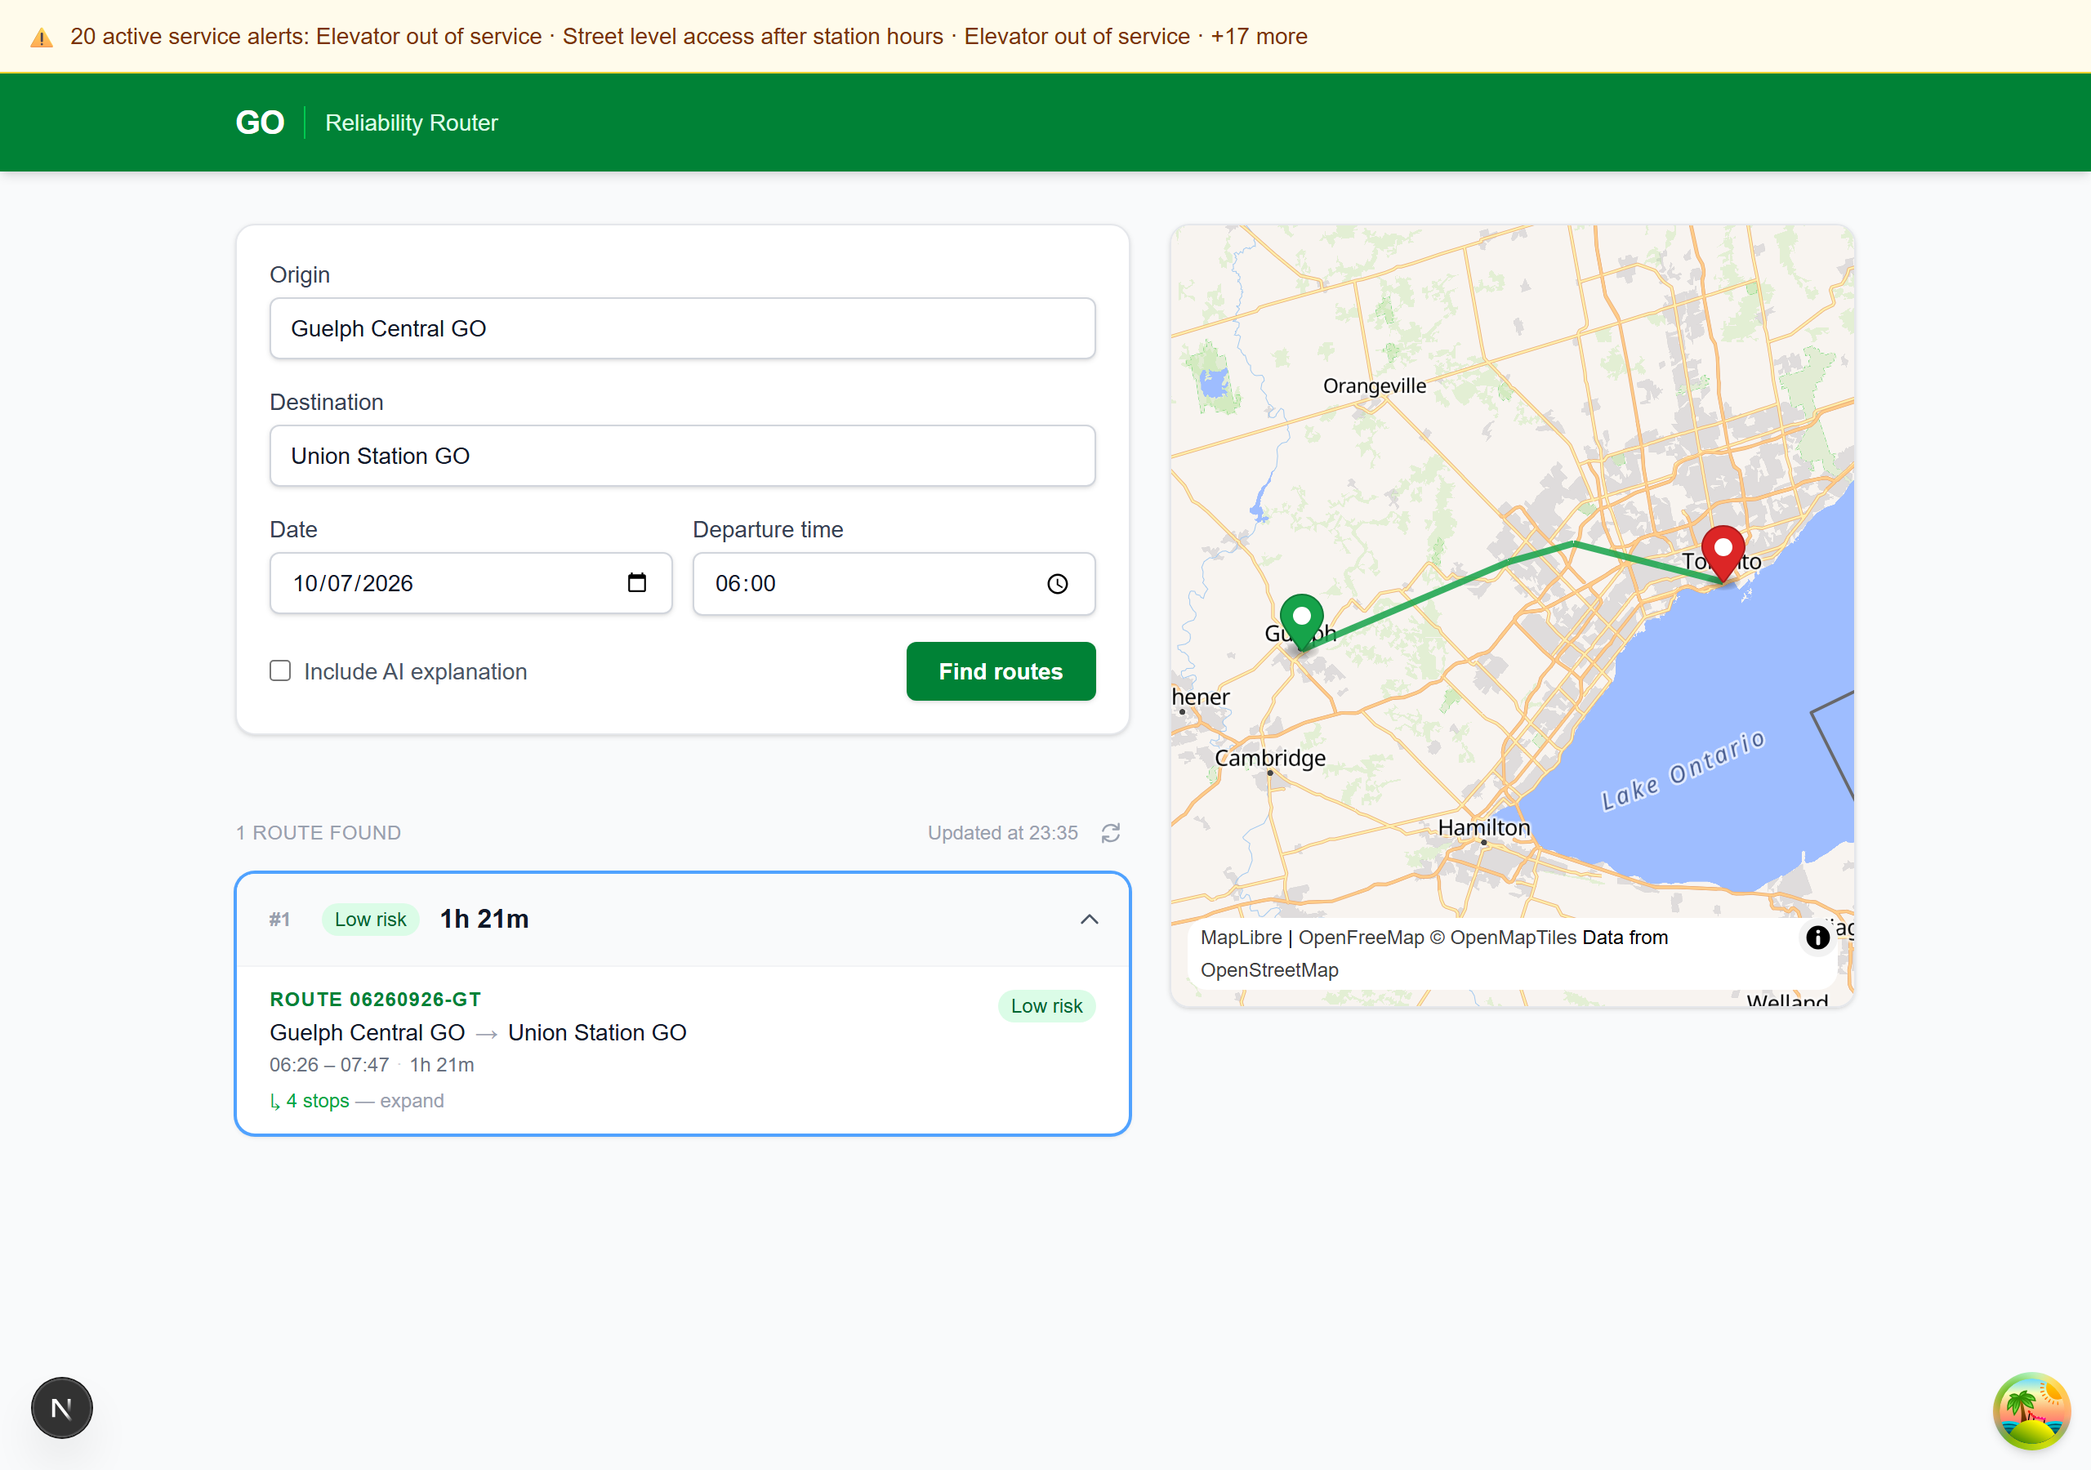
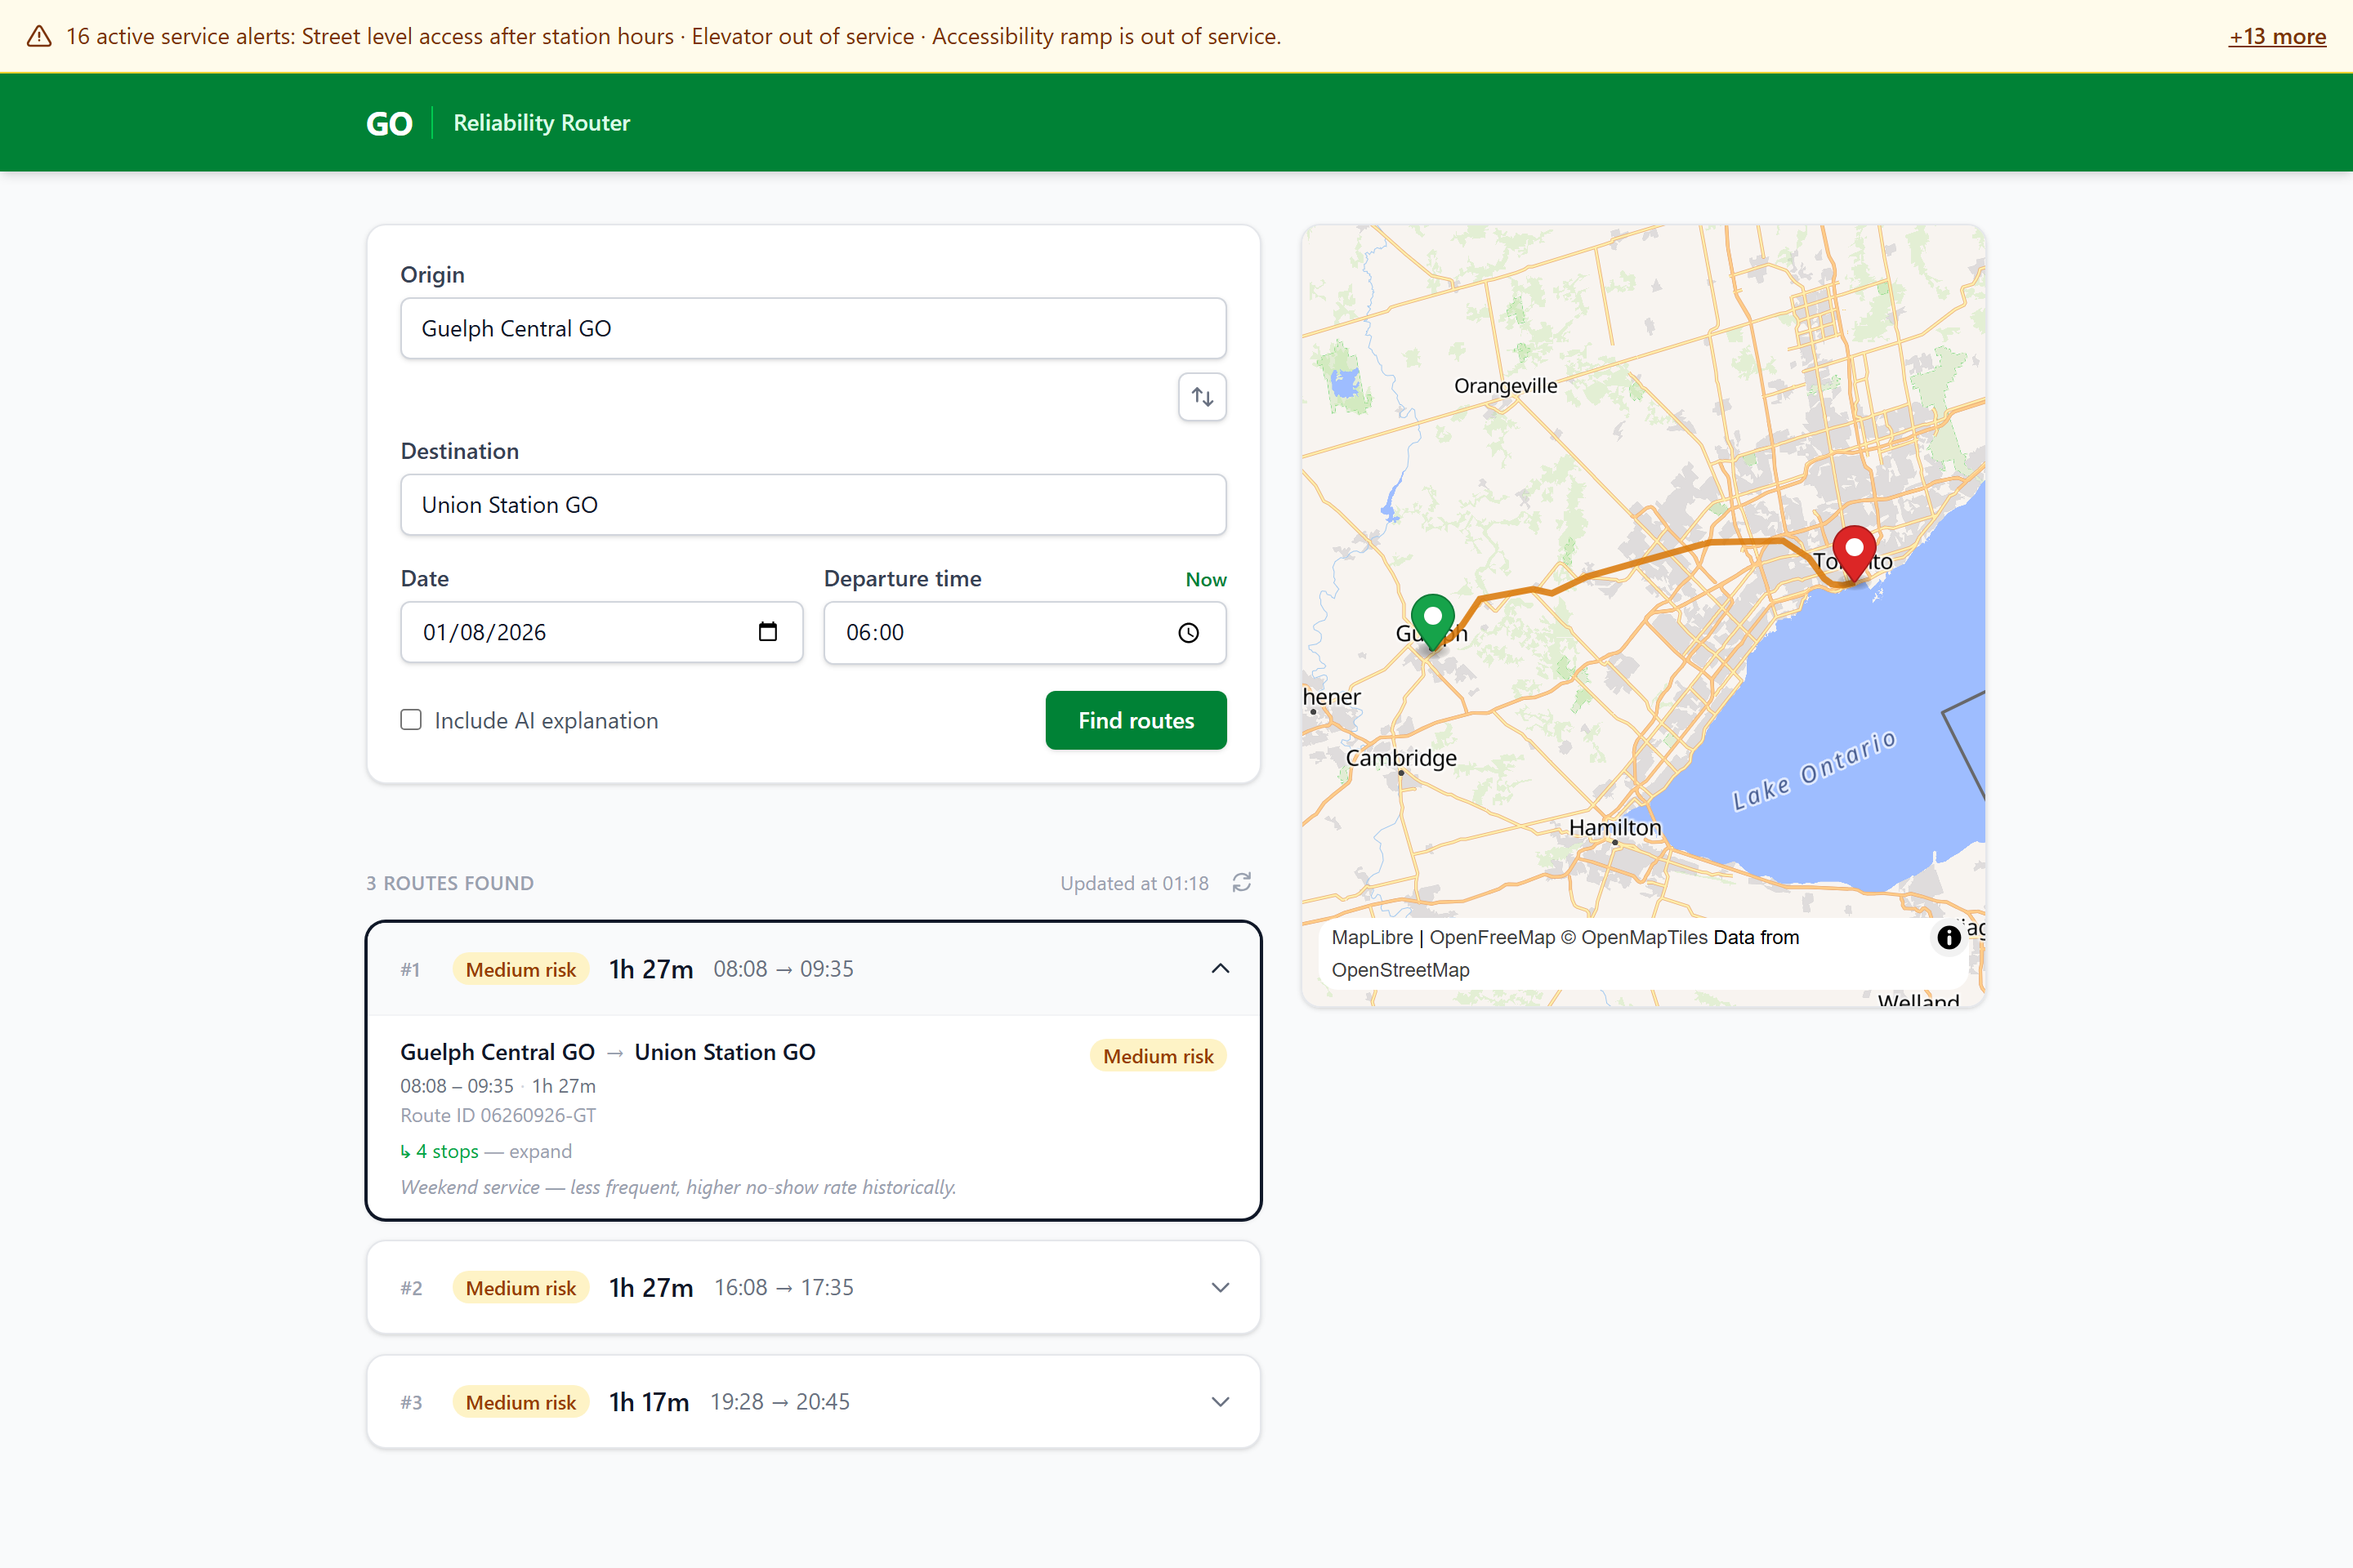
Draw trip legs along their actual track
TripLeg.geometry carries the leg's stretch of shape in GeoJSON [lon, lat]
order, so the polyline follows the rail corridor instead of cutting a
straight chord from Guelph to Toronto. Geometry is per leg, so per-leg risk
colouring is unaffected.

Fallbacks are unchanged where there is nothing to draw along: walk legs
carry no geometry field at all, and trips whose feed has no usable shape
send null. Both fall back to the two-point chord, so coverage can be
partial within a single route. Geometry with fewer than two usable points
falls back too — one point can't make a line.

The map caption admitting the old limitation is gone, and with it the
wrapper that only existed to hold it.

Verified against the live backend: a GL->UN route returns 28/2/3/23-point
legs whose endpoints match exactly, so the separately drawn legs join with
no gap. Screenshot recaptured from a production build — the previous
attempt caught the Next dev badge and the React Query devtools button,
which confirms the devtools gating works.

Tests: track geometry preferred over the chord, chord fallback on null and
on under-length geometry, mixed coverage in one route, walk legs left as
chords, and a two-point track accepted rather than treated as truncation.

diff --git a/src/hooks/useRoutePolyline.test.ts b/src/hooks/useRoutePolyline.test.ts
@@ -83,6 +83,73 @@ describe("useRoutePolyline", () => {
     expect(called).toBe(false);
   });
 
+  it("draws a trip leg along its track geometry", () => {
+    const track = [
+      [-80.247138, 43.543809],
+      [-80.1, 43.6],
+      [-79.822419, 43.675116],
+    ];
+    const { result } = renderHook(() =>
+      useRoutePolyline(makeRoute([makeTripLeg({ geometry: track })])),
+    );
+    expect(result.current?.features[0]?.geometry.coordinates).toEqual(track);
+  });
+
+  it("falls back to the stop-to-stop chord when a trip has no shape", () => {
+    const { result } = renderHook(() =>
+      useRoutePolyline(makeRoute([makeTripLeg({ geometry: null })])),
+    );
+    expect(result.current?.features[0]?.geometry.coordinates).toEqual([
+      [-79.4, 43.6],
+      [-79.5, 43.7],
+    ]);
+  });
+
+  it("mixes track and chord legs within one route", () => {
+    // Coverage can be partial: the backend returns null geometry for trips
+    // whose feed carries no shape
+    const track = [
+      [-79.4, 43.6],
+      [-79.45, 43.65],
+      [-79.5, 43.7],
+    ];
+    const route = makeRoute([
+      makeTripLeg({ geometry: track }),
+      makeTripLeg({ geometry: null }),
+      makeWalkLeg(),
+    ]);
+    const { result } = renderHook(() => useRoutePolyline(route));
+    const coords = result.current?.features.map((f) => f.geometry.coordinates.length);
+    expect(coords).toEqual([3, 2, 2]);
+  });
+
+  it("keeps walk legs as a straight chord even though they carry no geometry", () => {
+    const walk = makeWalkLeg();
+    expect(walk).not.toHaveProperty("geometry");
+    const { result } = renderHook(() => useRoutePolyline(makeRoute([walk])));
+    expect(result.current?.features[0]?.geometry.coordinates).toHaveLength(2);
+  });
+
+  it("accepts a two-point track — short straight stretches are real", () => {
+    // Mount Pleasant to Bramalea genuinely reduces to two points; that is the
+    // rail being straight, not truncation
+    const track = [
+      [-79.822419, 43.675116],
+      [-79.763494, 43.68703],
+    ];
+    const { result } = renderHook(() =>
+      useRoutePolyline(makeRoute([makeTripLeg({ geometry: track })])),
+    );
+    expect(result.current?.features[0]?.geometry.coordinates).toEqual(track);
+  });
+
+  it("falls back when the geometry has too few points to draw", () => {
+    const { result } = renderHook(() =>
+      useRoutePolyline(makeRoute([makeTripLeg({ geometry: [[-79.4, 43.6]] })])),
+    );
+    expect(result.current?.features[0]?.geometry.coordinates).toHaveLength(2);
+  });
+
   it("skips a leg whose coordinates are missing", () => {
     const route = makeRoute([
       makeWalkLeg({ to_lat: null, to_lon: null }),

diff --git a/src/components/RouteMap.tsx b/src/components/RouteMap.tsx
@@ -126,35 +126,27 @@ export function RouteMap({ origin, destination, selectedRoute }: Props) {
   }, [origin, destination]);
 
   return (
-    <div className="flex flex-col gap-2">
-      <div
-        data-testid="route-map"
-        role="region"
-        aria-label="Route map"
-        className={MAP_FRAME_CLASS}
-      >
-        {/* The canvas conveys the route visually only */}
-        <p className="sr-only">
-          {selectedRoute ? routeSummary(selectedRoute) : "No route selected."}
-        </p>
-        <div ref={containerRef} className="h-full w-full" />
-        {loadFailed && (
-          <div
-            role="alert"
-            className="absolute inset-0 flex flex-col items-center justify-center gap-1 bg-gray-50 px-6 text-center"
-          >
-            <p className="text-sm font-medium text-gray-700">Map unavailable</p>
-            <p className="text-xs text-gray-500">
-              The basemap could not be loaded. Route details are still listed above.
-            </p>
-          </div>
-        )}
-      </div>
-      {selectedRoute && (
-        <p className="text-xs text-gray-400">
-          Lines connect stops directly — the backend does not publish GTFS track
-          geometry, so they show the sequence of stops, not the rail alignment.
-        </p>
+    <div
+      data-testid="route-map"
+      role="region"
+      aria-label="Route map"
+      className={MAP_FRAME_CLASS}
+    >
+      {/* The canvas conveys the route visually only */}
+      <p className="sr-only">
+        {selectedRoute ? routeSummary(selectedRoute) : "No route selected."}
+      </p>
+      <div ref={containerRef} className="h-full w-full" />
+      {loadFailed && (
+        <div
+          role="alert"
+          className="absolute inset-0 flex flex-col items-center justify-center gap-1 bg-gray-50 px-6 text-center"
+        >
+          <p className="text-sm font-medium text-gray-700">Map unavailable</p>
+          <p className="text-xs text-gray-500">
+            The basemap could not be loaded. Route details are still listed above.
+          </p>
+        </div>
       )}
     </div>
   );

diff --git a/src/hooks/useRoutePolyline.ts b/src/hooks/useRoutePolyline.ts
@@ -16,9 +16,23 @@ function endpoints(leg: Leg): Position[] | null {
   ];
 }
 
+/**
+ * The leg's stretch of track, when the backend has a usable shape for it.
+ *
+ * Absent on walk legs — GTFS has no geometry for those — and null for trips
+ * whose feed carries no shape, so coverage can be partial within one route.
+ * A single point can't draw a line, so it falls back with the rest.
+ */
+function trackGeometry(leg: Leg): Position[] | null {
+  if (leg.kind !== "trip" || !leg.geometry) return null;
+  const points = leg.geometry.filter((p): p is Position => p.length >= 2);
+  return points.length >= 2 ? points : null;
+}
+
 function buildFeatureCollection(route: ScoredRoute) {
   const features = route.legs.flatMap((leg) => {
-    const coordinates = endpoints(leg);
+    // Track where we have it, straight stop-to-stop chord where we don't
+    const coordinates = trackGeometry(leg) ?? endpoints(leg);
     if (!coordinates) return [];
     return [{
       type: "Feature" as const,
@@ -35,10 +49,12 @@ function buildFeatureCollection(route: ScoredRoute) {
 /**
  * Map GeoJSON for a route's legs, or null when nothing is selected.
  *
- * Every leg carries its own stop coordinates, so this is a pure derivation
- * with no fetching. It used to resolve each intermediate stop through
- * `GET /stops?query=<name>` and filter by id — five extra requests on a
- * Guelph-to-Union route, against a backend that rate-limits.
+ * Trip legs are drawn along their actual track; walk legs, and trips whose
+ * feed has no shape, fall back to a straight line between the two stops.
+ * Every leg carries its own coordinates and geometry, so this is a pure
+ * derivation with no fetching — it used to resolve each intermediate stop
+ * through `GET /stops?query=<name>`, five extra requests on a
+ * Guelph-to-Union route against a backend that rate-limits.
  */
 export function useRoutePolyline(route: ScoredRoute | null): RoutePolyline | null {
   return useMemo(() => (route ? buildFeatureCollection(route) : null), [route]);

diff --git a/e2e/fixtures.ts b/e2e/fixtures.ts
@@ -45,12 +45,22 @@ function tripLeg(from: typeof GUELPH, to: typeof GUELPH, departure: string, arri
     to_stop_id: to.stop_id,
     from_stop_name: from.stop_name,
     to_stop_name: to.stop_name,
+    from_lat: from.lat,
+    from_lon: from.lon,
+    to_lat: to.lat,
+    to_lon: to.lon,
     trip_id: `${from.stop_id}-${to.stop_id}`,
     route_id: "06260926-GT",
     service_id: "20260801",
     departure_time: departure,
     arrival_time: arrival,
     travel_seconds: 2400,
+    // A bend, so the fixture exercises track geometry rather than a chord
+    geometry: [
+      [from.lon, from.lat],
+      [(from.lon + to.lon) / 2, Math.max(from.lat, to.lat) + 0.02],
+      [to.lon, to.lat],
+    ],
     risk: { risk_score: 0.2, risk_label: "Low", modifiers: [], is_cancelled: false },
   };
 }

diff --git a/src/components/RouteMap.test.tsx b/src/components/RouteMap.test.tsx
@@ -125,16 +125,6 @@ describe("RouteMap", () => {
     );
   });
 
-  it("captions the polyline as stop-to-stop rather than true track geometry", () => {
-    render(<RouteMap origin={origin} destination={destination} selectedRoute={route} />);
-    expect(screen.getByText(/not the rail alignment/i)).toBeInTheDocument();
-  });
-
-  it("omits the polyline caption when no route is selected", () => {
-    render(<RouteMap origin={origin} destination={destination} />);
-    expect(screen.queryByText(/not the rail alignment/i)).toBeNull();
-  });
-
   it("ignores transient tile errors raised after the style has loaded", () => {
     const consoleError = vi.spyOn(console, "error").mockImplementation(() => {});
     render(<RouteMap origin={origin} destination={destination} />);

diff --git a/playwright.config.ts b/playwright.config.ts
@@ -11,10 +11,9 @@ export default defineConfig({
   expect: { timeout: 15_000 },
   retries: 0,
   // The backend rate-limits: measured at roughly a 30-request bucket refilling
-  // a few per second. A planning test costs ~8 requests, most of them the
-  // polyline resolving intermediate stops, so three workers bursting together
-  // sat right on the limit. Two keeps the suite inside it without meaningfully
-  // slowing it — wall time is dominated by route scoring, not by concurrency.
+  // a few per second. Two workers keeps the suite comfortably inside it without
+  // meaningfully slowing it — wall time is dominated by route scoring, not by
+  // concurrency.
   workers: 2,
   use: {
     baseURL: "http://localhost:3000",

diff --git a/README.md b/README.md
@@ -74,9 +74,10 @@ bun run test:e2e      # Playwright end-to-end suite (see prerequisites below)
 #### The rate limit
 
 The backend rate-limits: measured at roughly a 30-request bucket refilling a
-few per second. A single planning flow costs about eight requests, five of them
-`useRoutePolyline` resolving intermediate stops one name at a time — the
-missing `GET /stops/{id}` noted in that hook.
+few per second. A planning flow now costs three requests — two stop searches as
+the user types, plus `/routes`. It used to cost eight: legs carried no
+coordinates, so `useRoutePolyline` resolved each intermediate stop through its
+own `/stops` search.
 
 The suite does **not** retry through a 429. It fails immediately, naming the
 limiter, so the condition stays visible rather than being masked:
@@ -104,7 +105,7 @@ The frontend dev server is started automatically (an already-running
 
 ### Unit tests
 
-245 tests across 33 files covering utility functions, hooks, and all major components:
+251 tests across 33 files covering utility functions, hooks, and all major components:
 
 | File | What it covers |
 |---|---|
@@ -124,7 +125,7 @@ The frontend dev server is started automatically (an already-running
 | `src/components/RouteList.test.tsx` | empty state, route count, explanation panel and its pending state, header wrapping, expansion across a reorder |
 | `src/components/RouteCard.test.tsx` | summary row and depart/arrive times, select vs. expand decoupling, selection styling, route-id demotion, touch targets |
 | `src/components/ErrorBoundary.test.tsx` | fallback rendering and error logging |
-| `src/hooks/useRoutePolyline.test.ts` | GeoJSON output, coord resolution, per-name query dedupe, missing-coord skip, pending sentinel, leg properties |
+| `src/hooks/useRoutePolyline.test.ts` | GeoJSON output from leg coordinates, track geometry vs. chord fallback, mixed coverage, missing-coord skip, leg properties |
 | `src/hooks/useSavedStops.test.tsx` | load after hydration, StrictMode clobber regression, persistence, corrupt JSON |
 | `src/hooks/useStops.test.tsx` | 300 ms debounce, minimum query length |
 | `src/hooks/useHealth.test.ts` | poll interval per health state |
@@ -133,7 +134,7 @@ The frontend dev server is started automatically (an already-running
 | `src/app/providers.test.tsx` | devtools excluded outside development |
 | `src/app/globals.test.ts` | font variables applied, one shared focus treatment |
 | `src/app/routeFallbacks.test.tsx` | route-level loading, error and not-found pages |
-| `src/components/RouteMap.test.tsx` | responsive sizing, basemap failure fallback, screen-reader summary, polyline caption |
+| `src/components/RouteMap.test.tsx` | responsive sizing, basemap failure fallback, screen-reader summary |
 | `src/components/MapFrame.test.tsx` | placeholder matches the loaded map's frame |
 | `src/components/icons.test.tsx` | icons are decorative and inherit colour |
 | `src/lib/routeName.test.ts` | line designation vs. opaque route id |
